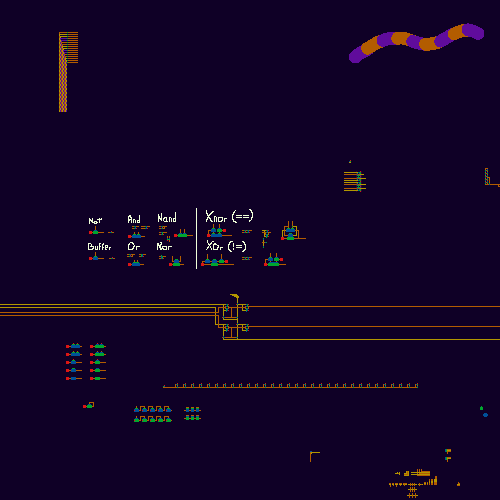
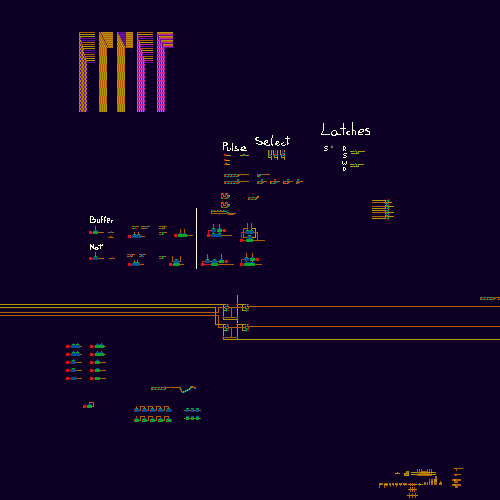
Ignore done signal when queue is empty

diff --git a/src/main.rs b/src/main.rs
@@ -896,13 +896,6 @@ impl MyEguiApp {
                         );
                         ui.colored_label(Color32::RED, format!(" - Got: {a} + {b} = {got}"));
                     }
-                    Some(AdderHalt::UnexpectedOut) => {
-                        ui.colored_label(Color32::RED, "Unexpected output");
-                        ui.colored_label(
-                            Color32::RED,
-                            "The circuit produced a result without enqued operations",
-                        );
-                    }
                     None => {}
                 }
             }
@@ -1003,13 +996,6 @@ impl MyEguiApp {
                             format!(" - Expected: {input} -> {expected}"),
                         );
                         ui.colored_label(Color32::RED, format!(" - Got: {input} -> {got}"));
-                    }
-                    Some(CollatzHalt::UnexpectedOut) => {
-                        ui.colored_label(Color32::RED, "Unexpected output");
-                        ui.colored_label(
-                            Color32::RED,
-                            "The circuit produced a result without enqued operations",
-                        );
                     }
                     None => {}
                 }

diff --git a/src/circuit/environment/collatz.rs b/src/circuit/environment/collatz.rs
@@ -61,7 +61,6 @@ pub enum CollatzHalt {
         expected: u64,
         got: u128,
     },
-    UnexpectedOut,
 }
 
 impl CircuitEnvCollatzConfig {
@@ -73,7 +72,7 @@ impl CircuitEnvCollatzConfig {
             seed: 0,
             bits_inp,
             bits_out,
-            max_operations: 100,
+            max_operations: 1000,
         }
     }
 
@@ -194,13 +193,11 @@ impl CircuitEnvCollatz {
                     }
                 }
             } else {
-                // We did not expect output from circuit
-                self.halt = Some(CollatzHalt::UnexpectedOut);
-                return;
+                // We did not expect output from circuit. We ignore the next signal.
             }
         }
 
-        if io.next || self.circuit.tick == 0 {
+        if io.next {
             // Compute new input
             let input = self.rng.random_range(1..=mask_u128(self.config.bits_inp));
             let steps = collatz_steps(input) & mask_u128(self.config.bits_out) as u64;

diff --git a/src/circuit/environment/adder.rs b/src/circuit/environment/adder.rs
@@ -69,7 +69,6 @@ pub enum AdderHalt {
         expected: u128,
         got: u128,
     },
-    UnexpectedOut,
 }
 
 impl CircuitEnvAdderConfig {
@@ -86,7 +85,7 @@ impl CircuitEnvAdderConfig {
             } else {
                 bits_inp_a
             },
-            max_operations: 100,
+            max_operations: 1000,
         }
     }
 
@@ -199,13 +198,11 @@ impl CircuitEnvAdder {
                     }
                 }
             } else {
-                // We did not expect output from circuit
-                self.halt = Some(AdderHalt::UnexpectedOut);
-                return;
+                // We did not expect output from circuit. We ignore the next signal.
             }
         }
 
-        if io.next || self.circuit.tick == 0 {
+        if io.next {
             // Compute new input
             let a = self.rng.random_range(0..=mask_u128(self.config.bits_inp_a));
             let b = self.rng.random_range(0..=mask_u128(self.config.bits_inp_b));
